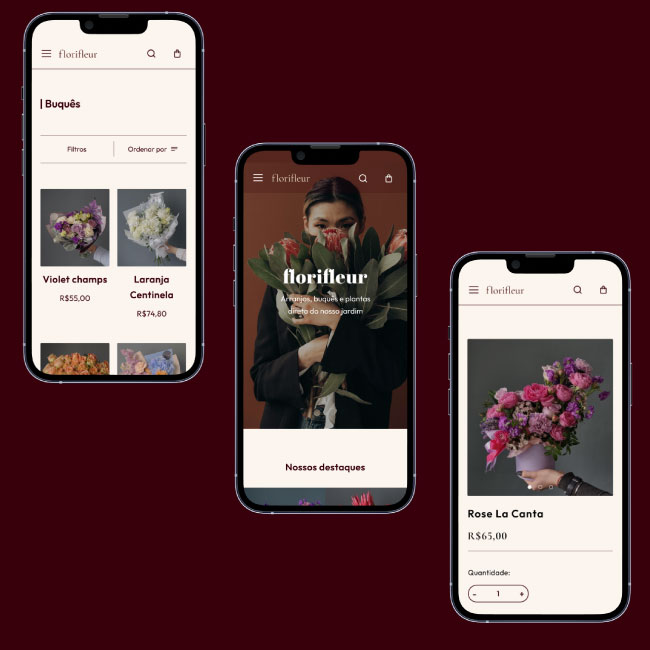
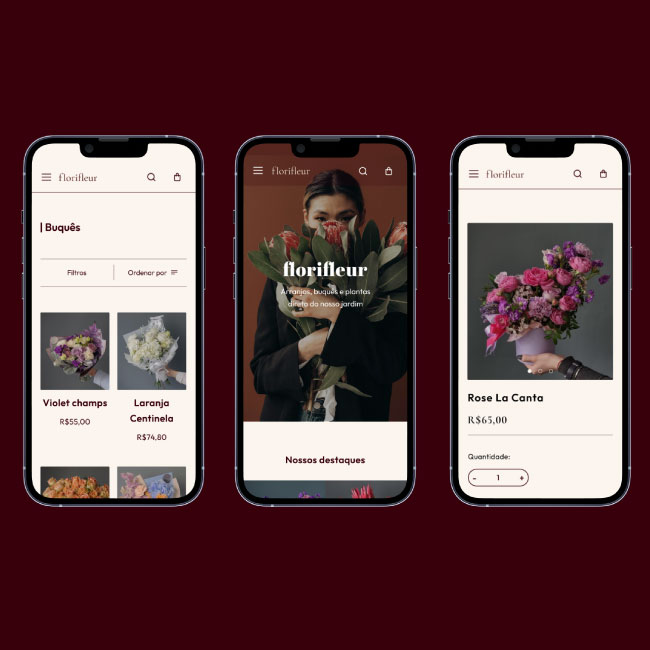
update project

diff --git a/projects/florifleur-e-commerce/index.html b/projects/florifleur-e-commerce/index.html
@@ -48,31 +48,19 @@
             </div>
         </section>
         <section class="project-photo">
-            <img src="media/header.png" alt="Florifleur header página principal">
-            <!--<article class="descriptions">
-                <h1>Arquitetura da Informação</h1>
-                <p>Analisar como as informações serão dispostas em cada tela e percurso do usuário.</p>
-                <img src="media/ai.png" alt="gráfico de arquitetura da informação projeto florifleur">
-            </article>
-            <article class="descriptions">
-                <h1>Protótipos lo-fi</h1>
-                <p>Passando para o digital, um protótipo de baixa fidelidade que mostra as conexões entre as telas.</p>
-                <img src="media/wireframes.png" alt="prototipo de baixa fidelidade telas ">
-            </article>
-            <article class="descriptions">
-                <h1>Protótipos hi-fi</h1>
-                <p>Agora, os protótipos de alta fidelidade e suas conexões entre as telas.</p>
-                <img src="media/hi-fi.png" alt="prototipo de alta fidelidade telas">
-            </article>-->
+            <img src="media/mockup-header.jpg" alt="florifleur header página principal">
+            <!--<img src="media/header.png" alt="Florifleur header página principal">-->
             <img src="media/telas01.jpg" alt="telas desktop florifleur">
             <img src="media/telas02.jpg" alt="telas mobile florifleur">
             <div class="quote">
             <h1>Hipótese</h1>
                 <p>"Acreditamos que com um fluxo de compras melhorado e facilitado, ajudará usuários de diversas idades a concluirem a compra de maneira eficaz."</p>
             </div>
-            <img src="media/telas03.jpg" alt="telas checkout florifleur">
-            <img src="media/telas05.jpg" alt="">
-            <img src="media/paleta-de-cores.jpg" alt="">
+            <img src="media/checkout.jpg" alt="fluxo checkout florifleur">
+            <img src="media/telas05.jpg" alt="telas mobile mockups florifleur">
+            <img src="media/paleta-de-cores.jpg" alt="paleta de cores site florifleur">
+            <img src="media/telas06.jpg" alt="telas desktop mockups florifleur">
+            <img src="media/collection-screen.jpg" alt="">
         </section>
     </main>
     <footer>

diff --git a/projects/florifleur-e-commerce/style/style.css b/projects/florifleur-e-commerce/style/style.css
@@ -160,11 +160,12 @@ section p {
 
 .project-photo .quote {
     max-width: 500px;
-    margin: 4rem auto;
+    margin: 2rem auto;
+    padding: 1rem;
 }
 
 .project-photo .quote p {
-    background-color: #fff;
+    border: 1px solid #000;
     border-radius: 5px;
     padding: 1rem;
 }
@@ -277,9 +278,11 @@ header #nav.active #burguer-icon::after {
 }
 /* ---------- Finishes header ---------- */
 
+/* ---------- Starts projects ---------- */
 .project-photo img {
     width: 90%;
 }
+/* ---------- Finishes projects ---------- */
 
 /* ---------- Starts footer ---------- */
 footer {
